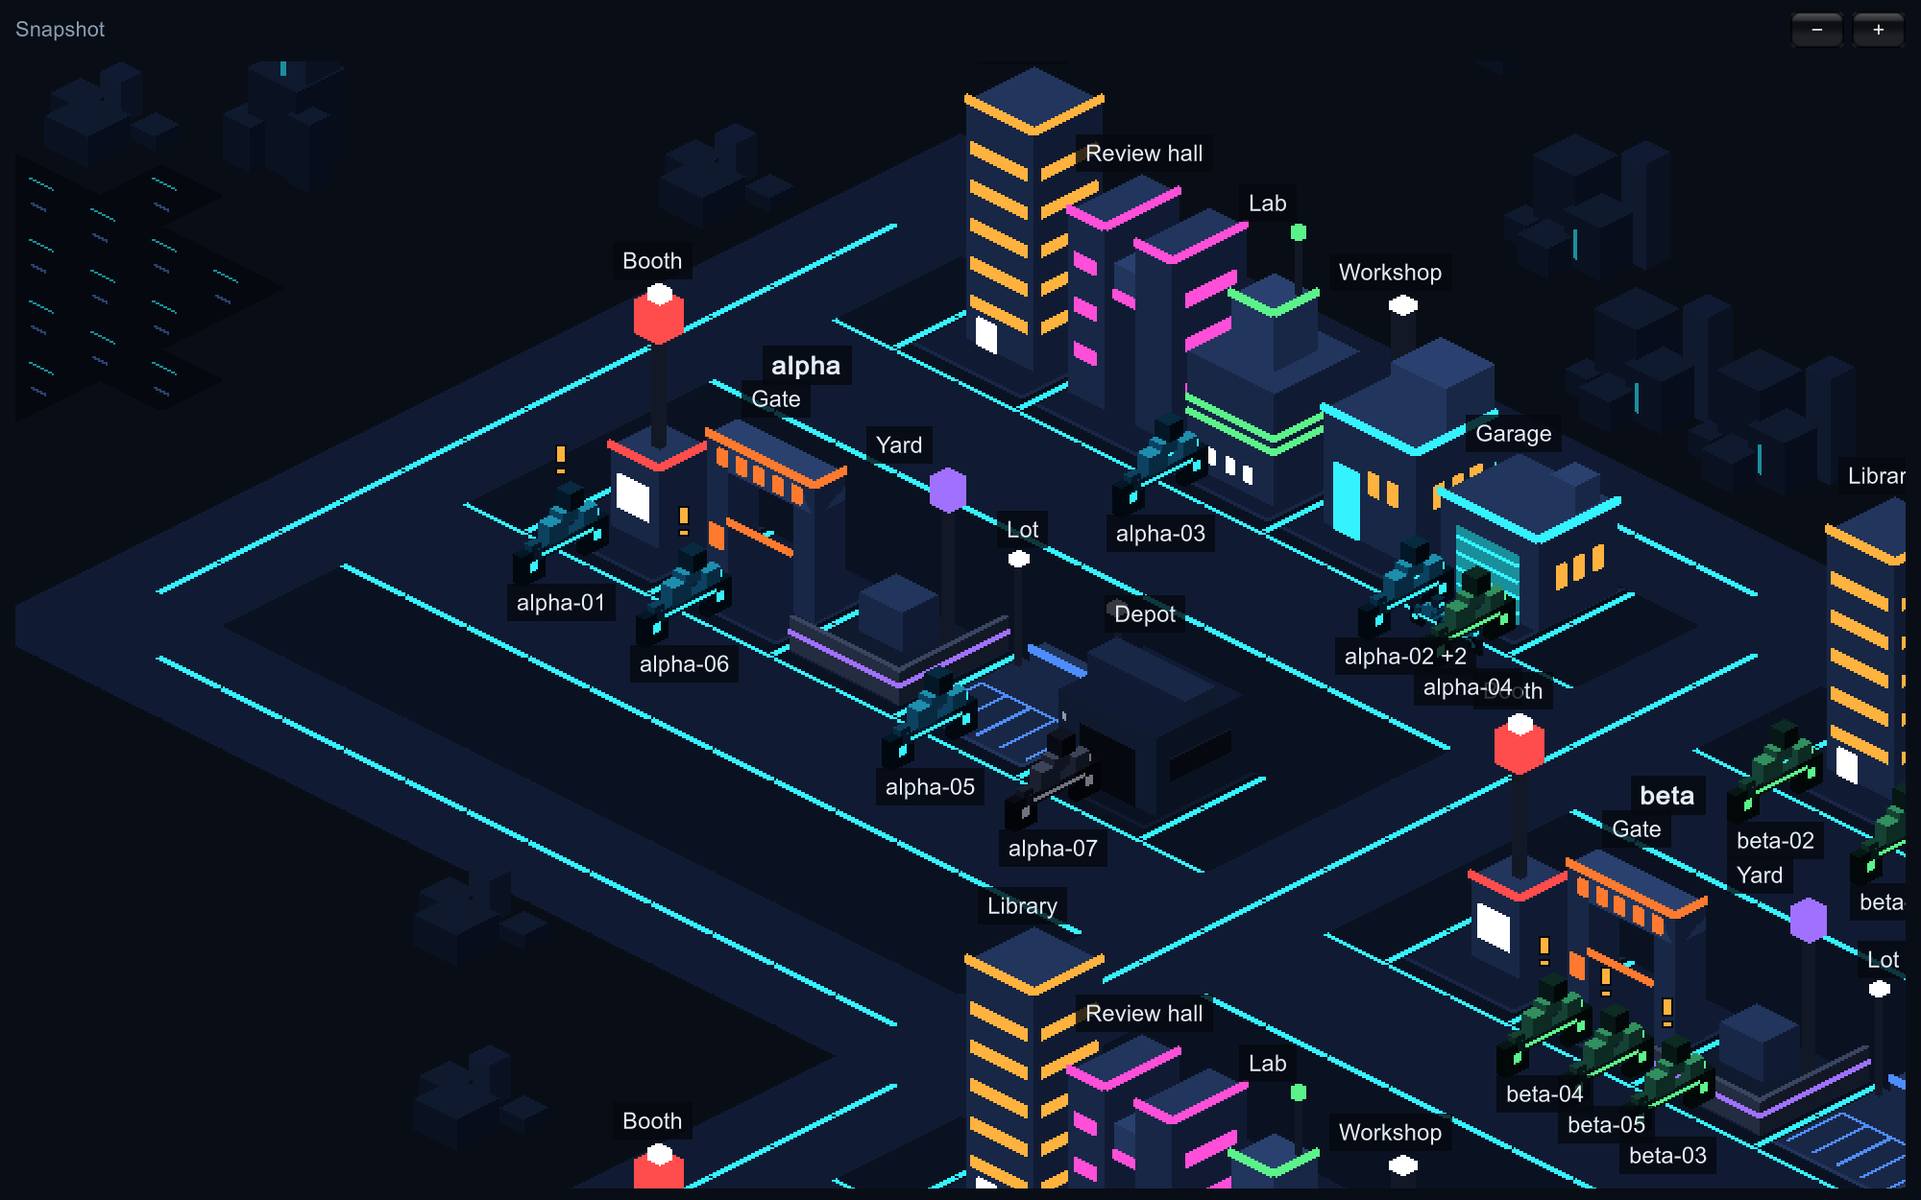
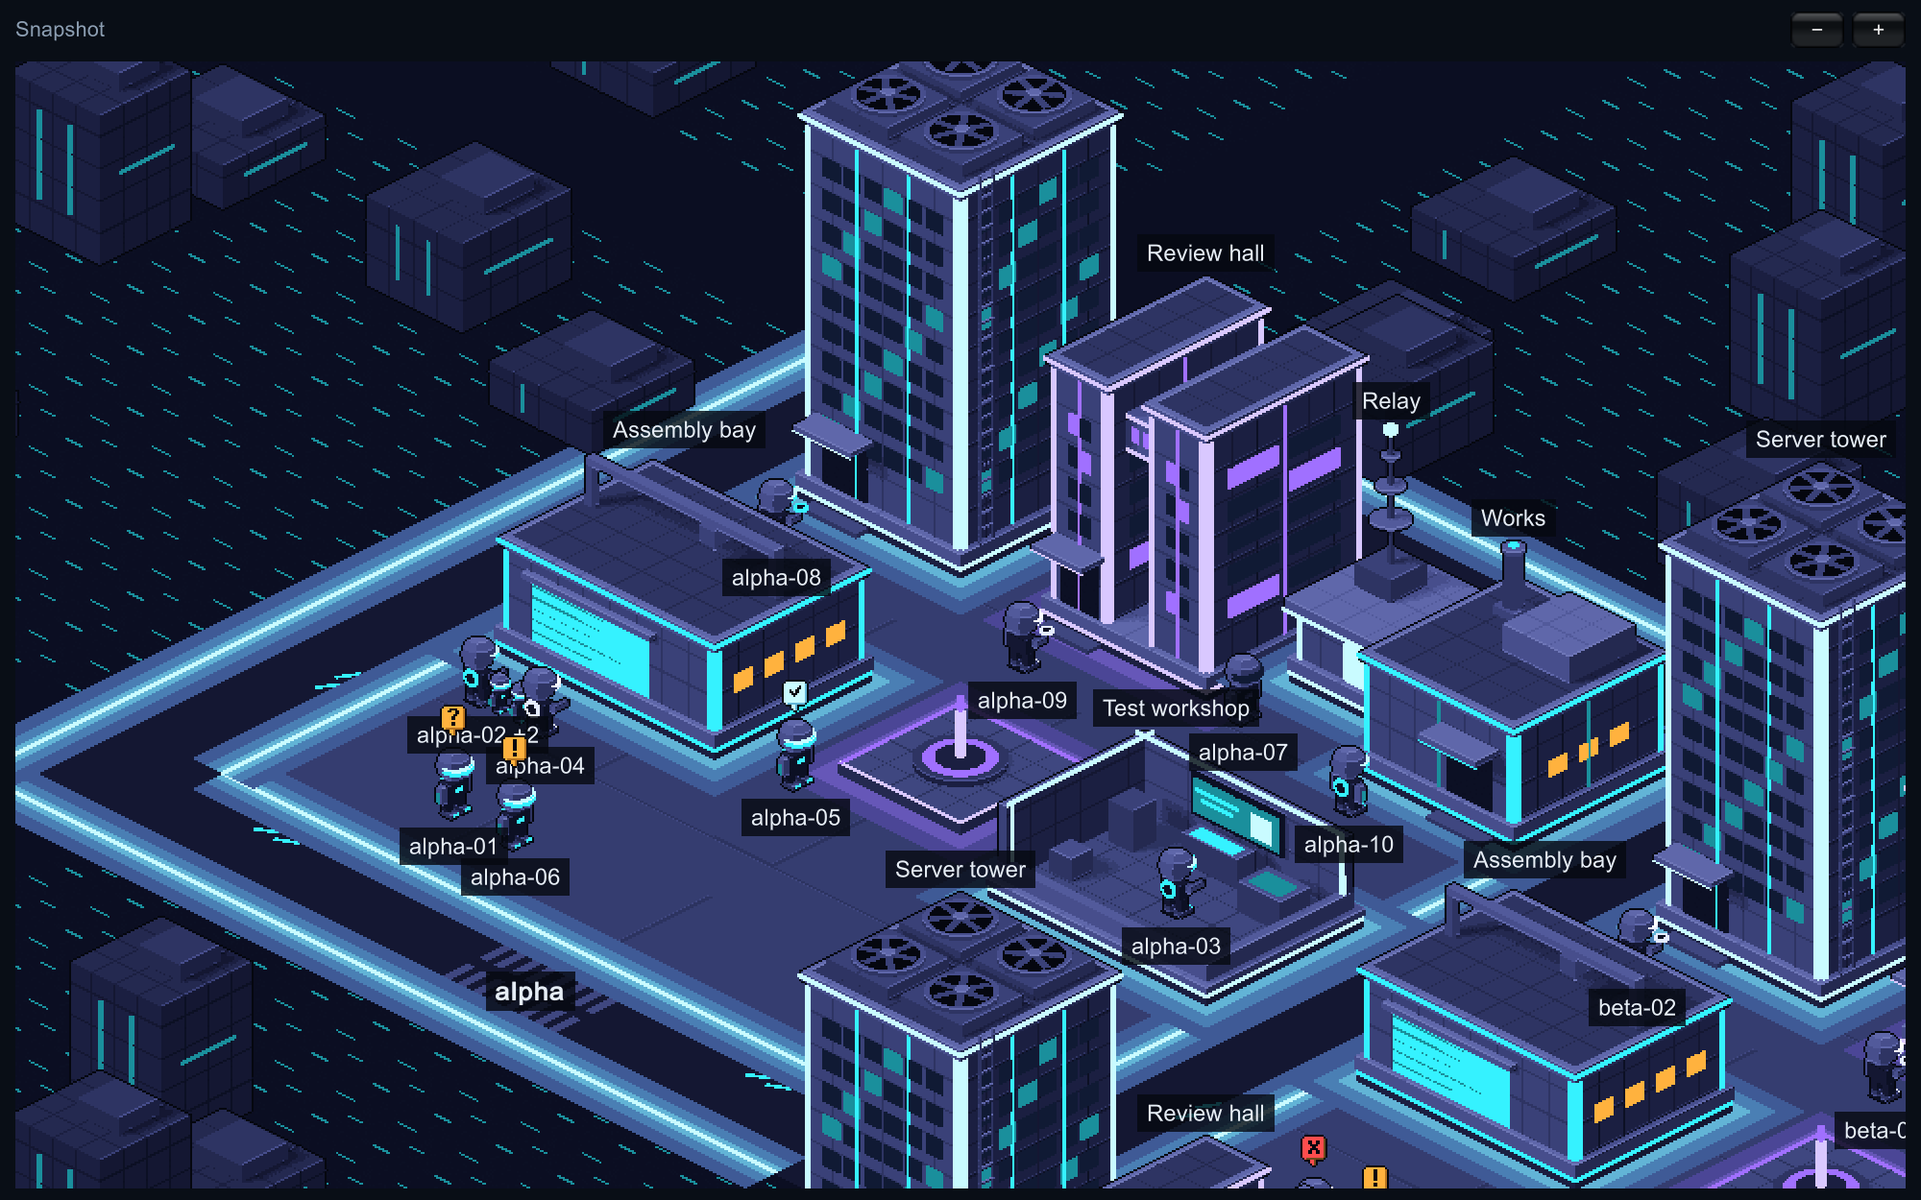
GRID-18: badges over names, the opening view, and the README for sectors
A name label could cover the badge of a bot that needs the owner, so the window now draws
badges last of all. The view opens on the sector, and in a small window shifts just far
enough to show the first bot that needs the owner. The README's world section is rewritten
for sectors, bots, the five work buildings and the badges, with new pictures.

diff --git a/Assets/TheGrid/WorldView.cs b/Assets/TheGrid/WorldView.cs
@@ -13,16 +13,17 @@ namespace TheGrid
     public sealed class WorldView : MonoBehaviour
     {
         static readonly Color Ground = new Color32(0x0b, 0x0e, 0x22, 255);   // the palette's ground colour
+        const float BounceSeconds = .4f;
+        const int BadgeHeight = 37;   // art pixels from where a bot stands to the foot of its badge: just over the helmet
 
         Camera cam;
         Transform holder;
         WorldStage stage;
-        Sprite farBadge;
+        readonly Sprite[] badges = new Sprite[5];   // in the order of Badge; none for Badge.None
 
         WorldModel model = new WorldModel();
         RenderTexture picture;    // the last drawing of the map
         bool stale = true;        // the map has changed since it was drawn
-        bool syncedFar;
         Rect view, bounds;        // view: where the map is, in points
         float pointScale = 1f;
         int pixelW, pixelH, level = 2;
@@ -95,6 +96,14 @@ namespace TheGrid
             if (model.sectors.Count == 0) return;
             var sector = model.sectors.Find(s => s.needOwner > 0) ?? model.sectors[0];
             LookAtSector(sector.cell);
+            // In a window too small for the whole sector, the first bot that needs the owner must still be in view: the
+            // view moves off the sector's middle only as far as that takes.
+            var waiting = sector.bots.Find(b => b.needsOwner);
+            if (waiting == null) return;
+            var at = Iso.BotSpot(sector.cell, waiting.place, waiting.slot) + new Vector2(0, 16);
+            float zoom = Iso.Zoom[level], reachX = Mathf.Max(0, pixelW / (2 * zoom) - 48), reachY = Mathf.Max(0, pixelH / (2 * zoom) - 48);
+            centre.x = Mathf.Clamp(centre.x, at.x - reachX, at.x + reachX);
+            centre.y = Mathf.Clamp(centre.y, at.y - reachY, at.y + reachY);
         }
 
         // One sector and its lane, at the closest level that fits: near enough to follow a bot from a doorway to a workstation.
@@ -135,9 +144,9 @@ namespace TheGrid
             }
             pixelW = Mathf.Max(2, width & ~1);    // even, so the centre of the view falls between two pixels and art stays crisp
             pixelH = Mathf.Max(2, height & ~1);
-            // The model is a new object only when the roster changed, and far or near changes only on a zoom. The rest of the
-            // time there is nothing to lay out, only the camera to keep where it should be.
-            if (!ReferenceEquals(world, model) || Far != syncedFar)
+            // The model is a new object only when the roster changed. The rest of the time there is nothing to lay out, only
+            // the camera to keep where it should be.
+            if (!ReferenceEquals(world, model))
             {
                 model = world;
                 var cells = new List<Vector2Int>();
@@ -148,8 +157,7 @@ namespace TheGrid
                     LookAtOpening();
                     opened = true;
                 }
-                stale |= stage.Sync(model, Far);
-                syncedFar = Far;
+                stale |= stage.Sync(model);
                 if (Selected != "" && !stage.TryGetBot(Selected, out _)) Selected = "";
             }
             PlaceCamera();
@@ -174,7 +182,8 @@ namespace TheGrid
             cam.transparencySortAxis = new Vector3(0, 1, .001f);
 
             stage = new WorldStage(holder);
-            farBadge = Resources.Load<Sprite>("Art/badge-question");
+            string[] art = { "", "badge-question", "badge-approve", "badge-fault", "badge-done" };
+            for (int i = 1; i < art.Length; i++) badges[i] = Resources.Load<Sprite>("Art/" + art[i]);
         }
 
         void Update()
@@ -238,7 +247,7 @@ namespace TheGrid
             if (picture != null) GUI.DrawTexture(new Rect(view.x, view.y, pixelW / pointScale, pixelH / pointScale), picture, ScaleMode.StretchToFill, false);
             GUI.BeginGroup(view);
             if (model.sectors.Count == 0) GUI.Label(new Rect(8, 8, view.width - 16, 20), "No live agent sessions.", label);
-            bool up = (int)(Time.unscaledTime / WorldStage.BounceSeconds) % 2 == 0;
+            bool up = (int)(Time.unscaledTime / BounceSeconds) % 2 == 0;
             foreach (var sector in model.sectors)
             {
                 var o = Iso.PlotOrigin(sector.cell);
@@ -250,8 +259,8 @@ namespace TheGrid
                     Text(at, sector.name, label);
                     var summary = World.Summary(sector);
                     if (summary != "") Text(at + new Vector2(0, 16), summary, sector.needOwner > 0 ? loud : label);
-                    if (sector.needOwner > 0 && farBadge != null)
-                        GUI.DrawTexture(new Rect(at.x - 8, at.y - 26 - (up ? 2 : 0), 16, 20), farBadge.texture);
+                    if (sector.needOwner > 0 && badges[(int)Badge.Question] != null)
+                        GUI.DrawTexture(new Rect(at.x - 8, at.y - 26 - (up ? 2 : 0), 16, 20), badges[(int)Badge.Question].texture);
                     continue;
                 }
                 // The sector's name lies on the lane along its front. A building's name floats over its roof: bots stand in
@@ -267,6 +276,17 @@ namespace TheGrid
                     foreach (var b in sector.bots)
                         if (stage.TryGetBot(b.key, out var at))
                             Text(ToView(at - new Vector2(0, 8)), b.subagents > 0 ? b.name + " +" + b.subagents : b.name, b.key == Selected ? loud : label);
+            // Badges go on last of all, over buildings and over names: what a bot needs from the owner is never covered.
+            // The three that need the owner bounce; done does not.
+            float k = Iso.Zoom[level] / pointScale;
+            if (!Far)
+                foreach (var sector in model.sectors)
+                    foreach (var b in sector.bots)
+                        if (b.badge != Badge.None && badges[(int)b.badge] != null && stage.TryGetBot(b.key, out var at))
+                        {
+                            var foot = ToView(at + new Vector2(0, BadgeHeight + (b.needsOwner && up ? 2 : 0)));
+                            GUI.DrawTexture(new Rect(Mathf.Round(foot.x - 8 * k), Mathf.Round(foot.y - 18 * k), 16 * k, 20 * k), badges[(int)b.badge].texture);
+                        }
             GUI.EndGroup();
         }
 

diff --git a/Assets/TheGrid/WorldStage.cs b/Assets/TheGrid/WorldStage.cs
@@ -8,10 +8,9 @@ namespace TheGrid
 {
     // The scene's objects, built from the WorldModel: ground, lit lines, structures, bots, and the land beyond. It has no
     // camera, no input and no text; WorldView has those. What the art should look like is in docs/art-direction.md.
-    // A bot moves only when its agent's place changes; the only other motion is the bounce of a badge that needs the owner.
+    // A bot moves only when its agent's place changes. Badges are not here: the window draws them over the names.
     public sealed class WorldStage
     {
-        public const float BounceSeconds = .4f;
         const float WalkPixelsPerSecond = 4f * 36f;   // four tiles a second
         const float StepSeconds = .2f;
         const int OutlandRing = 3;   // plot-sized cells of city kept beyond the sectors, enough to reach the edge of the overview
@@ -20,7 +19,6 @@ namespace TheGrid
         // In the order of Structure.
         static readonly string[] StructureArt = { "b-server-tower", "b-review-hall", "b-relay", "b-works", "b-assembly-bay", "fountain", "b-test-workshop" };
         public static readonly string[] StructureNames = { "Server tower", "Review hall", "Relay", "Works", "Assembly bay", "", "Test workshop" };
-        static readonly string[] BadgeArt = { "", "badge-question", "badge-approve", "badge-fault", "badge-done" };   // in the order of Badge
         static readonly string[] StanceArt = { "stand", "type", "inspect", "off" };                                    // in the order of Stance
         // A bot's light is drawn in three marker colours: the light, its highlight, its dim partner. They become one of
         // these colourways, one an account: blue, white, orange. All from the art palette, and none of them amber: amber
@@ -39,7 +37,7 @@ namespace TheGrid
         sealed class Bot
         {
             public Transform at;
-            public SpriteRenderer body, badge;
+            public SpriteRenderer body;
             public readonly List<SpriteRenderer> small = new List<SpriteRenderer>();
             public Vector2 from, to;
             public float started = -100f, seconds = 1f;
@@ -56,8 +54,7 @@ namespace TheGrid
         readonly Dictionary<Vector2Int, GameObject> outlands = new Dictionary<Vector2Int, GameObject>();
         readonly List<string> accounts = new List<string>();
         readonly float[] tops = new float[StructureArt.Length];
-        int outlandsFor = -1, bouncing;
-        bool lastUp;
+        int outlandsFor = -1;
 
         // True while any bot is walking: the window draws faster while it lasts.
         public bool Walking { get; private set; }
@@ -135,9 +132,8 @@ namespace TheGrid
             return 0;
         }
 
-        // Lays out whatever changed in the model. far: the view is too far out for badges to be made out, so they are left
-        // off and the window draws one for each sector instead. Returns true: the picture has to be drawn again.
-        public bool Sync(WorldModel model, bool far)
+        // Lays out whatever changed in the model. Returns true: the picture has to be drawn again.
+        public bool Sync(WorldModel model)
         {
             var cells = new List<Vector2Int>();
             foreach (var sector in model.sectors)
@@ -158,7 +154,7 @@ namespace TheGrid
                 foreach (var b in sector.bots)
                 {
                     seen.Add(b.key);
-                    PutBot(b, Iso.BotSpot(sector.cell, b.place, b.slot), far);
+                    PutBot(b, Iso.BotSpot(sector.cell, b.place, b.slot));
                 }
             var gone = new List<string>();
             foreach (var kv in bots) if (!seen.Contains(kv.Key)) gone.Add(kv.Key);
@@ -167,23 +163,14 @@ namespace TheGrid
                 Kill(bots[key].at.gameObject);
                 bots.Remove(key);
             }
-            bouncing = 0;
-            foreach (var b in bots.Values)
-                if (b.badge.enabled && b.data.needsOwner) bouncing++;
             return true;
         }
 
-        // Walks and the badge bounce. Returns true when the picture has to be drawn again.
+        // Walks. Returns true when the picture has to be drawn again.
         public bool Tick(float now)
         {
             bool stale = false;
             Walking = false;
-            bool up = (int)(now / BounceSeconds) % 2 == 0;
-            if (up != lastUp)
-            {
-                lastUp = up;
-                if (bouncing > 0) stale = true;   // a badge on screen has just jumped
-            }
             foreach (var b in bots.Values)
             {
                 float t = Mathf.Clamp01((now - b.started) / b.seconds);
@@ -214,7 +201,6 @@ namespace TheGrid
                     b.shown = shown;
                     stale = true;
                 }
-                b.badge.transform.localPosition = new Vector3(0, b.data.needsOwner && up ? 39 : 37, 0);   // just over the helmet
             }
             return stale;
         }
@@ -346,7 +332,7 @@ namespace TheGrid
             return sr;
         }
 
-        void PutBot(WorldBot data, Vector2 spot, bool far)
+        void PutBot(WorldBot data, Vector2 spot)
         {
             if (!bots.TryGetValue(data.key, out var b))
             {
@@ -354,9 +340,6 @@ namespace TheGrid
                 b.body = NewSprite(data.name, null, root);
                 b.at = b.body.transform;
                 b.at.localPosition = new Vector3(spot.x, spot.y, -1);   // first sight: it is simply there
-                b.badge = NewSprite("badge", null, b.at);
-                b.badge.sortingOrder = 10;   // what a bot needs from the owner is never hidden behind a building
-                b.badge.transform.localPosition = new Vector3(0, 37, 0);
             }
             else if (spot != b.to)
             {
@@ -366,8 +349,6 @@ namespace TheGrid
                 b.seconds = Mathf.Max(.3f, (b.to - b.from).magnitude / WalkPixelsPerSecond);
             }
             b.data = data;
-            b.badge.sprite = data.badge == Badge.None ? null : Art(BadgeArt[(int)data.badge]);
-            b.badge.enabled = data.badge != Badge.None && !far;
 
             int want = Mathf.Min(data.subagents, MaxSmall);
             while (b.small.Count > want)

diff --git a/Assets/TheGrid/Editor/GridMenu.cs b/Assets/TheGrid/Editor/GridMenu.cs
@@ -28,7 +28,7 @@ namespace TheGrid.EditorTools
         }
 
         // Draws the world from the synthetic fixture into Logs/world-far.png and Logs/world-near.png, without a window or any agent
-        // data: a quick look at new sprites standing where the game puts them. Names and counts are text and are not in these pictures.
+        // data: a quick look at new sprites standing where the game puts them. Names, counts and badges are drawn by the window and are not in these pictures.
         [MenuItem("The Grid/Render World Pictures")]
         public static void WorldPictures()
         {

diff --git a/README.md b/README.md
@@ -55,33 +55,42 @@ The shape of the data the window draws is described in [docs/roster-snapshot.md]
 
 ## The world
 
-**World** shows the same agents as the roster, as riders in a city. Every repo gets a plot on one isometric map, and the map grows as new repos turn up. A rider stands at the building that matches what its agent is doing, and rides to another when that changes. Nothing else moves, except a marker that bounces over every rider that needs you.
+**World** shows the same agents as the roster, as bots in a city. Every repo gets a sector on one isometric map, and the map grows as new repos turn up. A bot stands at the building that matches the work its agent is doing, and walks to another when that changes. Nothing else moves, except the badge that bounces over every bot that needs you.
 
-![The world, zoomed in on one city](docs/art/world-near.png)
+![One sector, close up](docs/art/world-near.png)
 
-| Building | A rider is here when its agent is |
+A building stands for a kind of work:
+
+| Building | A bot is here when its agent is |
 |---|---|
-| Garage | editing files |
-| Library | reading or searching |
-| Lab | running tests |
+| Server tower | reading or searching |
+| Assembly bay | editing files |
+| Test workshop | running tests. Its near walls are cut away, so you see the bot at its terminal |
 | Review hall | looking at diffs, commits or a pull request |
-| Workshop | working, when it cannot be told on what |
-| Booth | blocked on a question to you |
-| Gate | waiting for a permission, or on something else |
-| Yard | errored, or in a state The Grid does not know |
-| Lot | done with its turn |
-| Depot | offline |
+| Works | working, when it cannot be told on what |
 
-Past the last plot the land carries on to the edge of the window: stones, outcrops, a spire or a lake here and there. A path runs round every city, so between any two neighbours there is one, and the paths of the whole map join up; a path has one line of light down its middle, where a city's own streets have a lit kerb on each side. Paths and outlands are scenery, worked out from where the cities are; they say nothing about any agent.
+Anything else is shown on the bot itself, wherever it stands:
 
-The Booth, the Gate and the Yard are where you are needed. The tall work buildings stand along the back street of a plot and the low ones along the front, so no tower hides a rider.
+| On the bot | Its agent is |
+|---|---|
+| Amber **?** badge | blocked on a question to you |
+| Amber **!** badge | waiting for a permission, or on something else |
+| Red **×** badge | errored, or in a state The Grid does not know |
+| Pale **✓** badge | done with its turn |
+| No light at all | offline |
+
+Bots that need you stand in the open at the front left of their sector, done ones by the fountain, offline ones in front of the relay. The view opens on the first sector with a bot that needs you, close enough to follow one bot from a doorway to a workstation; in a small window it makes sure that bot is in view.
+
+![Every sector, far out](docs/art/world-far.png)
+
+A lane runs round every sector, so between any two neighbours there is one, and the lanes of the whole map join up. Past the last sector the city carries on to the edge of the window as dark blocks. Lanes and blocks are scenery, worked out from where the sectors are; they say nothing about any agent.
 
 - **Move:** drag, or scroll with two fingers.
-- **Zoom:** the **−** and **+** buttons, the `-` and `+` keys, or scroll while holding Command. There are five levels, each double the last. The view opens at the closest one that shows every plot.
-- **Far out,** each city shows its name, how many riders need you and how many are done. **Closer in,** buildings and riders are named. A rider's glow colour is its account. Small bikes beside a rider are its subagents.
-- **Click a rider** to see that agent's roster row under the map.
+- **Zoom:** the **−** and **+** buttons, the `-` and `+` keys, or scroll while holding Command. There are five levels, each double the last.
+- **Far out,** each sector shows its name, how many bots need you and how many are done. **Closer in,** buildings and bots are named. The colour of a bot's light (blue, white or orange) is its account. Small bots beside a bot are its subagents.
+- **Click a bot** to see that agent's roster row under the map.
 
-Which repo has which plot is kept in `world.json` beside `settings.json`. A repo keeps its plot for good, also after its sessions are gone; delete the file to start the map again. If its contents are damaged it is kept as `world.json.bad` and the map starts empty.
+Which repo has which sector is kept in `world.json` beside `settings.json`. A repo keeps its place for good, also after its sessions are gone; delete the file to start the map again. If its contents are damaged it is kept as `world.json.bad` and the map starts empty.
 
 To look at the world without any agent sessions, start the app on a roster snapshot file. It then reads no agent data and writes nothing:
 
@@ -89,7 +98,7 @@ To look at the world without any agent sessions, start the app on a roster snaps
 Builds/TheGrid.app/Contents/MacOS/"The Grid" -snapshot "$PWD/fixtures/world/snapshot.json"
 ```
 
-Add `-shots <folder>` and it saves `far.png` and `near.png` there and quits. With the editor closed, **The Grid > Render World Pictures** does much the same without a window, into `Logs/`, though without the names:
+Add `-shots <folder>` and it saves `far.png` and `near.png` there and quits. With the editor closed, **The Grid > Render World Pictures** does much the same without a window, into `Logs/`, though without the names and badges:
 
 ```bash
 /Applications/Unity/Hub/Editor/6000.4.3f1/Unity.app/Contents/MacOS/Unity -batchmode -projectPath "$PWD" -executeMethod TheGrid.EditorTools.GridMenu.WorldPictures -quit
@@ -105,7 +114,8 @@ The sprites are made by a script; see [tools/art/README.md](tools/art/README.md)
 | Assets/TheGrid/Demo.unity | Scene with GridReplay attached. Open it and press Play. |
 | Assets/TheGrid/Core/ | Reads live sessions and builds the roster. No scene or editor code. |
 | Assets/TheGrid/RosterApp.cs, Roster.unity | The roster window and its scene. |
-| Assets/TheGrid/WorldView.cs | The world: the map, the riders, moving and zooming. |
+| Assets/TheGrid/WorldView.cs | The world as the window sees it: the camera, moving and zooming, names and badges. |
+| Assets/TheGrid/WorldStage.cs | The world's scene: ground, lanes, buildings, bots and the blocks beyond. |
 | Assets/TheGrid/Resources/Art/, tools/art/ | The sprites, and the Blender script that makes them. |
 | Assets/TheGrid/Tests/ | EditMode tests for Core. |
 | fixtures/ | Hand-written sample records and the pinned roster snapshot. |
